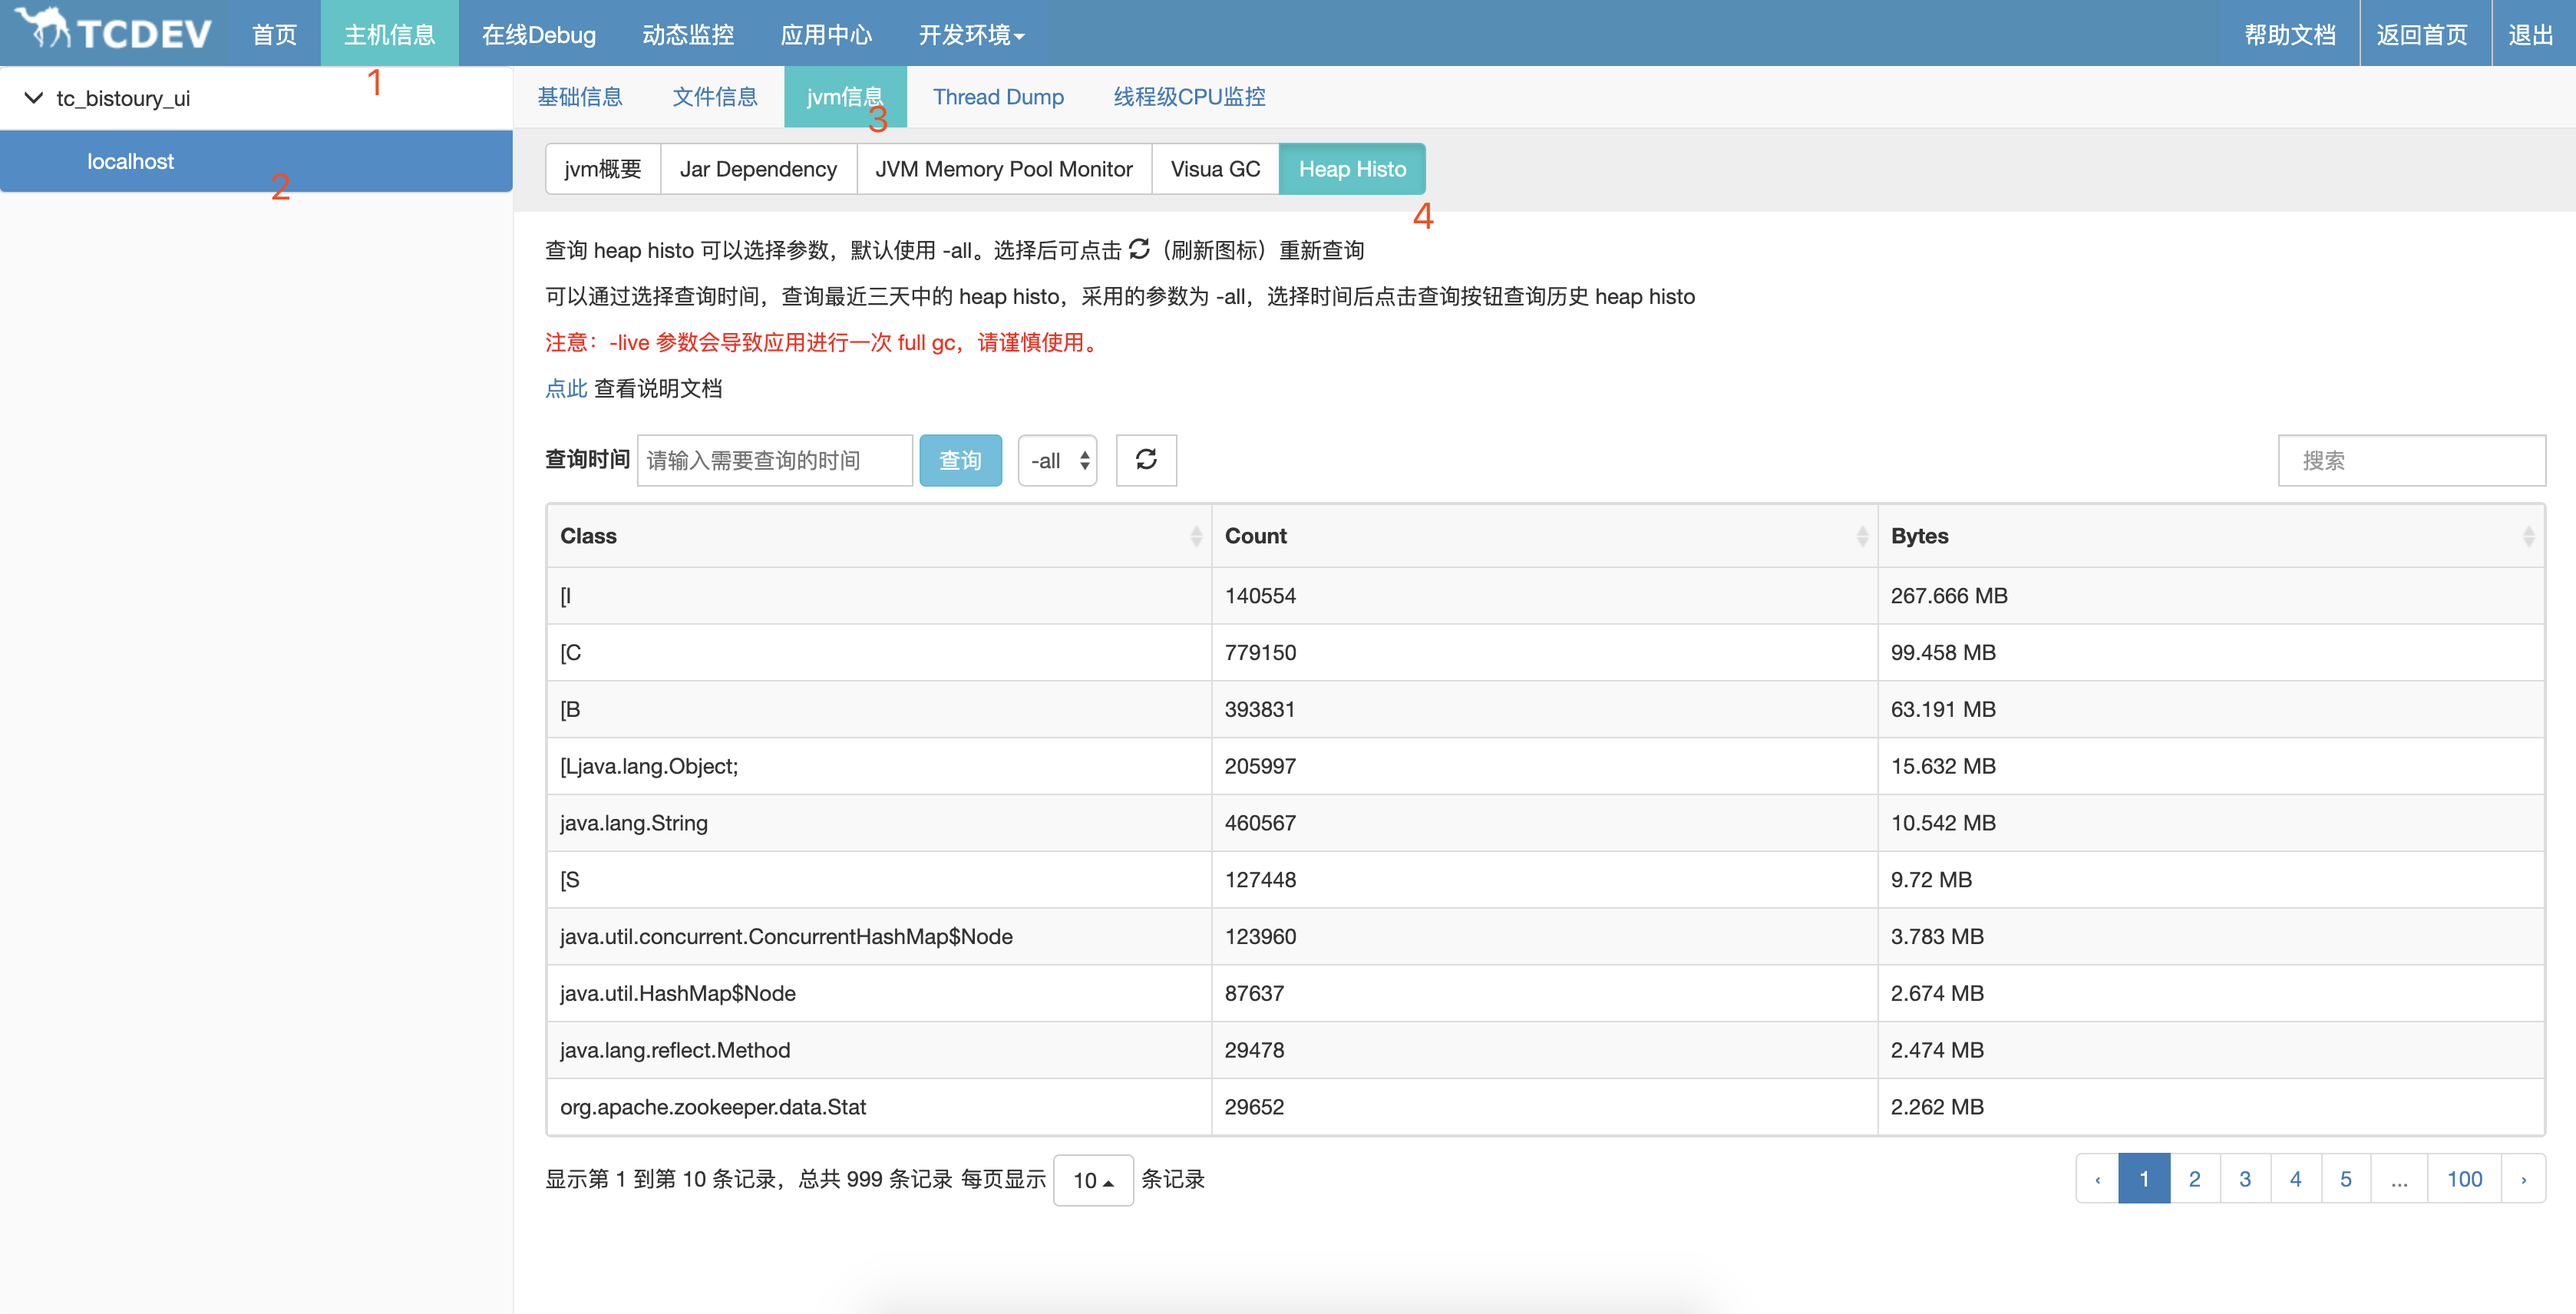
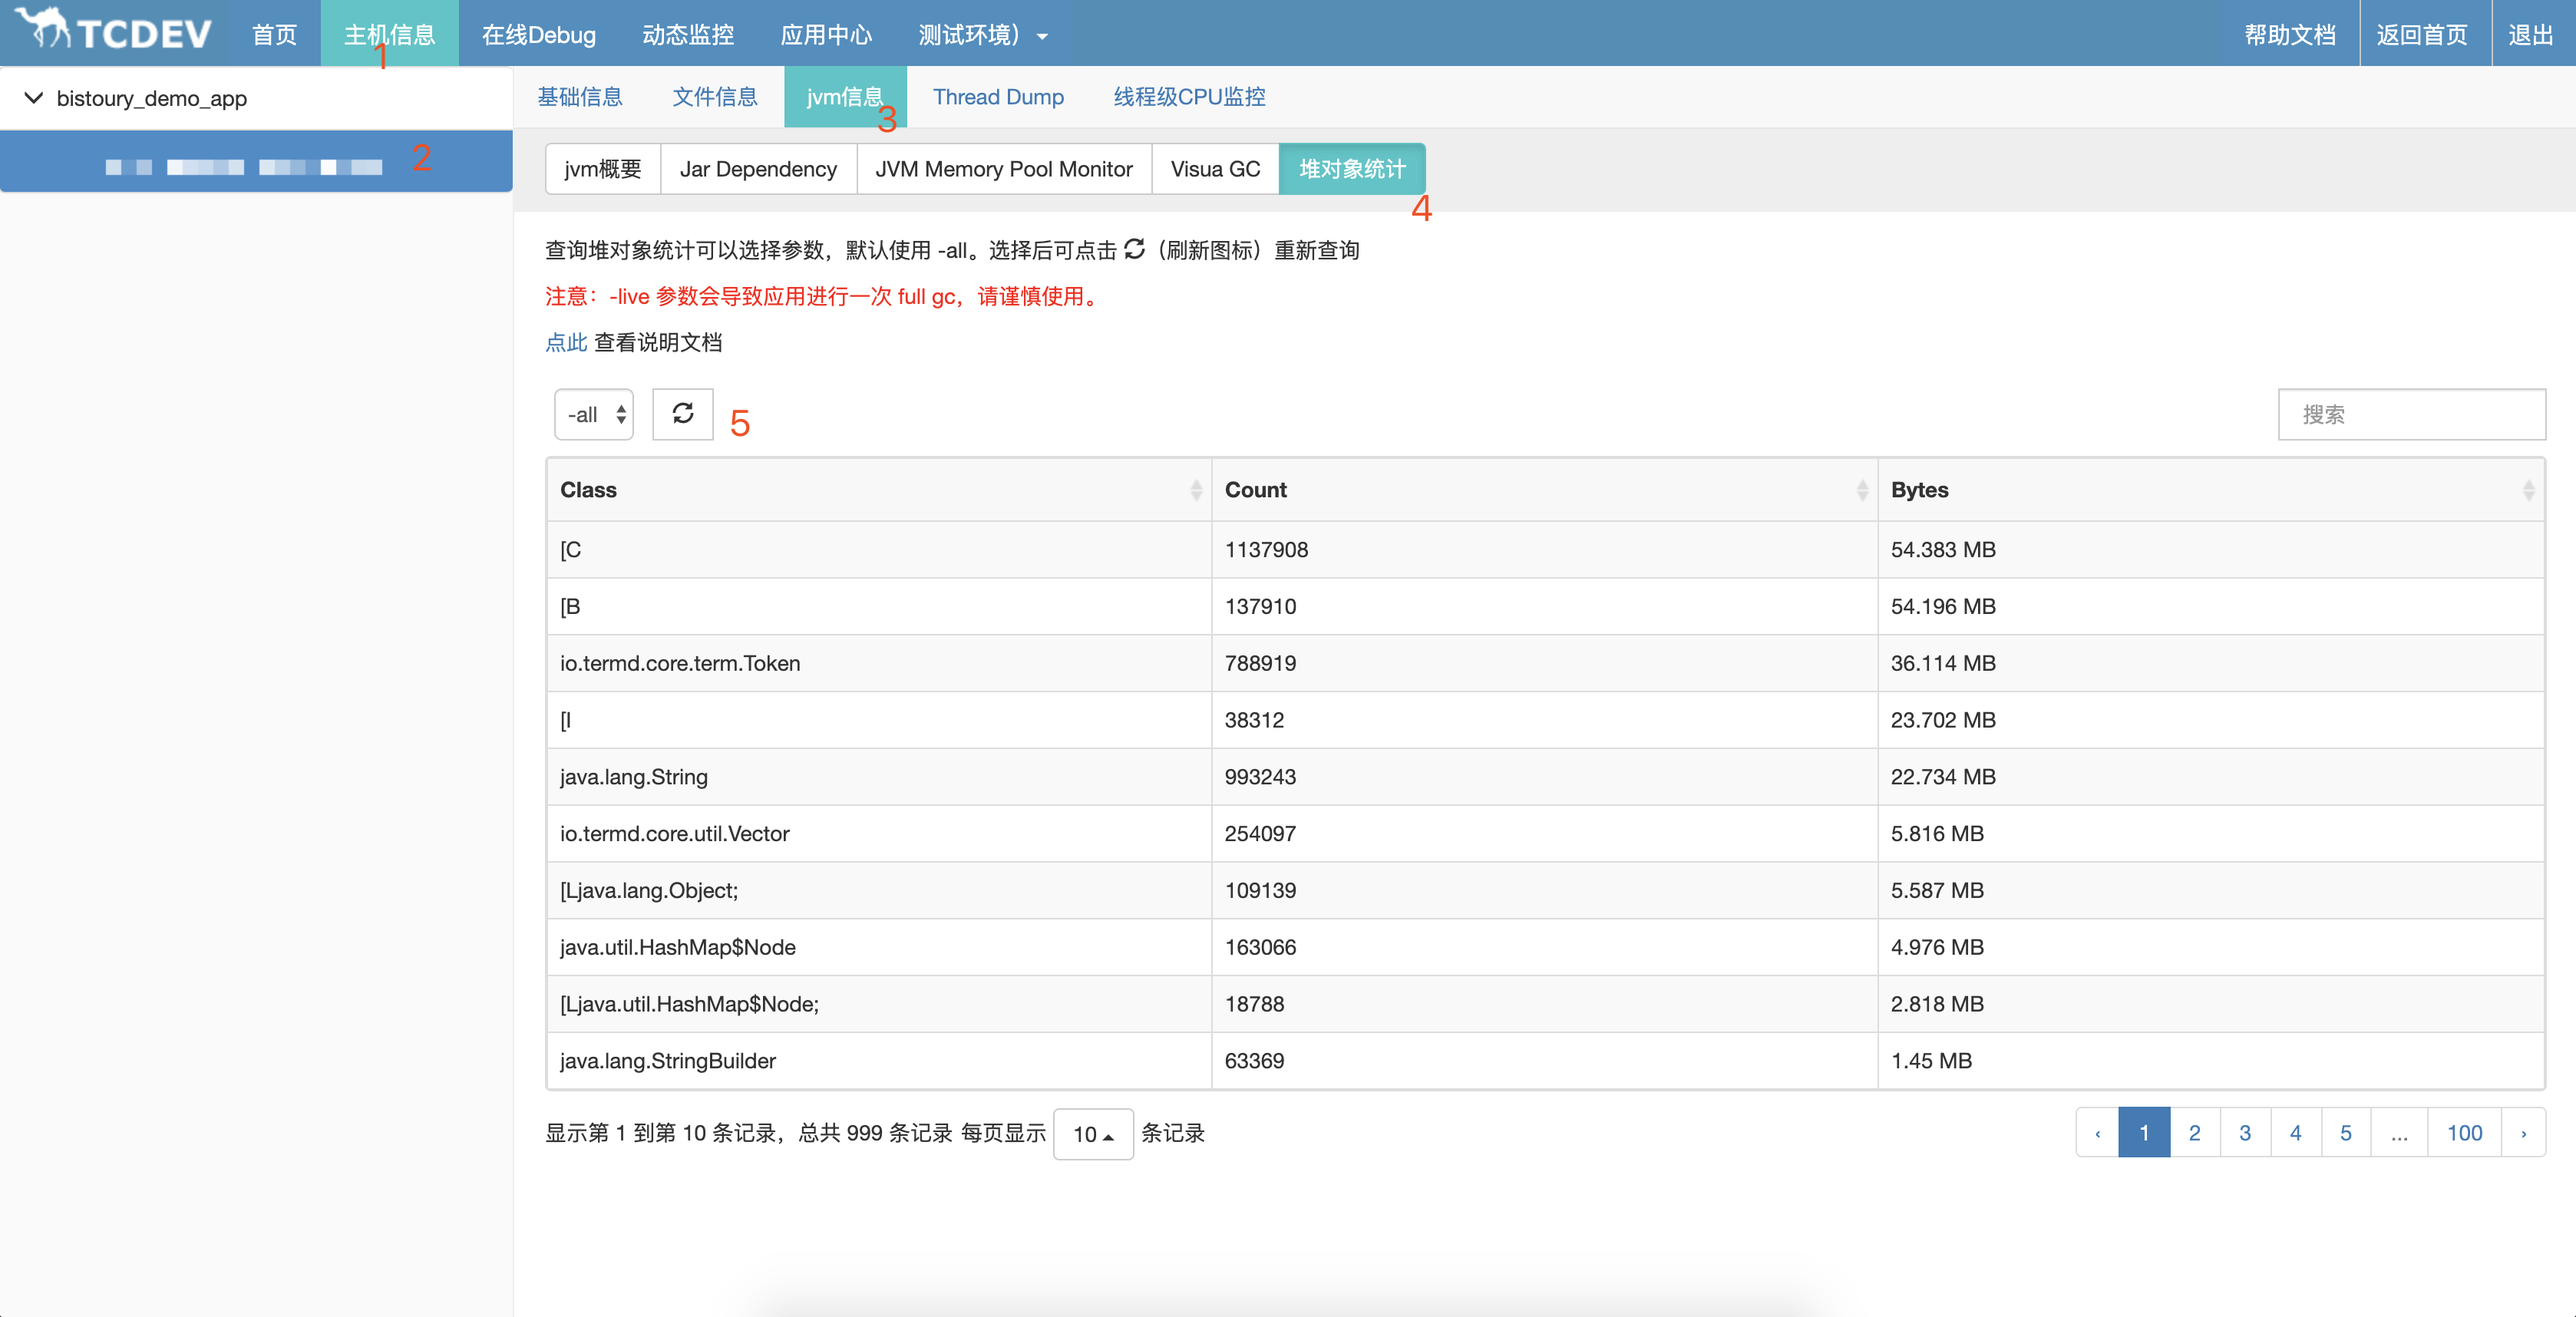
注释堆对象统计历史查询入口，修改脚本运行路径，修改zk mock ip地址

diff --git a/bistoury-ui/src/main/webapp/machine.html b/bistoury-ui/src/main/webapp/machine.html
@@ -145,7 +145,7 @@
                                 Monitor
                             </button>
                             <button type="button" class="btn btn-default" id="jvm-visua-gc-menu">Visua GC</button>
-                            <button type="button" class="btn btn-default" id="jvm-heap-histo-menu">Heap Histo</button>
+                            <button type="button" class="btn btn-default" id="jvm-heap-histo-menu">堆对象统计</button>
                         </div>
                         <div class="second-tab-container">
                             <div id="jvm-outline" class="jvm-tab">
@@ -377,8 +377,8 @@
                             </div>
                             <div id="jvm-heap-histo" class="jvm-tab">
                                 <div class="col-md-12">
-                                    <p>查询 heap histo 可以选择参数，默认使用 -all。选择后可点击 <i class="glyphicon glyphicon-refresh"></i>（刷新图标）重新查询</p>
-                                    <p>可以通过选择查询时间，查询最近三天中的 heap histo，采用的参数为 -all，选择时间后点击查询按钮查询历史 heap histo</p>
+                                    <p>查询堆对象统计可以选择参数，默认使用 -all。选择后可点击 <i class="glyphicon glyphicon-refresh"></i>（刷新图标）重新查询</p>
+                                    <!--<p>可以通过选择查询时间，查询最近三天中的 heap histo，采用的参数为 -all，选择时间后点击查询按钮查询历史 heap histo</p>-->
                                     <p style="color: red">注意：-live 参数会导致应用进行一次 full gc，请谨慎使用。</p>
                                     <p><a target="_blank"
                                           href="/api/url/redirect.do?name=jmap.help.url">点此</a> 查看说明文档
@@ -386,12 +386,12 @@
                                 </div>
                                 <div id="toolbar" style="margin-right: 12px;">
                                     <form class="form-inline">
-                                        <div class="form-group">
+                                        <!--<div class="form-group">
                                             <label for="heap-histo-time">查询时间</label>
                                             <input type="text" id="heap-histo-time" class="form_datetime" data-date-format="yyyy-mm-dd hh:ii"
                                                    placeholder="请输入需要查询的时间" style="width: 180px">
                                         </div>
-                                        <button type="button" id="heap-histo-search" class="btn btn-info">查询</button>
+                                        <button type="button" id="heap-histo-search" class="btn btn-info">查询</button>-->
                                         <select class="form-control" id="heap-histo-param" style="border-radius: 0px;">
                                             <option value="-all">-all</option>
                                             <option value="-live">-live</option>

diff --git a/docs/cn/jmap.md b/docs/cn/jmap.md
@@ -1,4 +1,4 @@
-# 堆内存对象监控
+堆内存对象监控
 当线上遇到OOM时，我们首先想到的是heap dump，然后通过分析dump文件定位问题，但是如果有人先你一步重启了应用，导致现场破坏，下一次遇到这个问题不知道是什么时候了。
 
 堆内存对象监控可以有效的解决这个问题，堆对象监控监控每分钟会抓取一次每个class的实例数目、内存占用、类全名信息，提供最近三天的数据查询，这样，在应用重启后，我们依然可以获取到出现堆内对象使用情况。
@@ -12,7 +12,9 @@
 - 进入主机信息页面
 - 选择需要查看的应用、服务器
 - 点击【jvm信息】
-- 点击【Heap Histo】
+- 点击【堆对象统计】
+- 点击刷新图标查询数据
 
-**注意**：如果需要查询历史数据，需要先到应用中心打开对应机器的jmap开关。
+**注意** -live参数会统计堆中存活的对象信息，回触发一次full gc，请谨慎选择。 
+
 ![jmap_panel](../image/jmap_panel.png)

diff --git a/docs/cn/quick_start.md b/docs/cn/quick_start.md
@@ -42,22 +42,22 @@ cd bistoury
 - 如果应用以本人用户启动，可以直接运行
 
 ```bash
-bistoury/script/quick_start.sh -p 1024 start
+./quick_start.sh -p 1024 start
 ```
 
 - 如果应用以其它帐号启动，比如tomcat，需要指定一下用户然后运行
 ```bash
-sudo -u tomcat bistoury/script/quick_start.sh -p 1024 start
+sudo -u tomcat ./quick_start.sh -p 1024 start
 ```
 
 - 停止运行
 
 ```bash
-bistoury/script/quick_start.sh stop
+./quick_start.sh stop
 ```
 
 ### 访问
-通过[http://127.0.0.1:9091/](http://127.0.0.1:9091/)访问，初始化用户名密码均为admin
+假设使用快速启动脚本的服务器ip为192.168.1.20，则可以通过[http://192.168.1.20:9091/](http://192.168.1.20:9091/)访问，初始化用户名密码均为admin
 
 ### 启动参数
 
